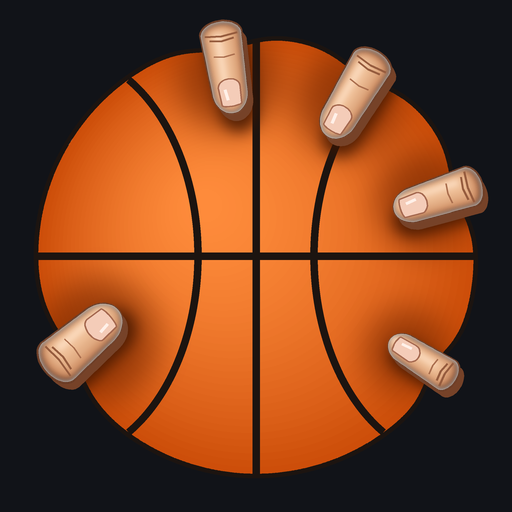
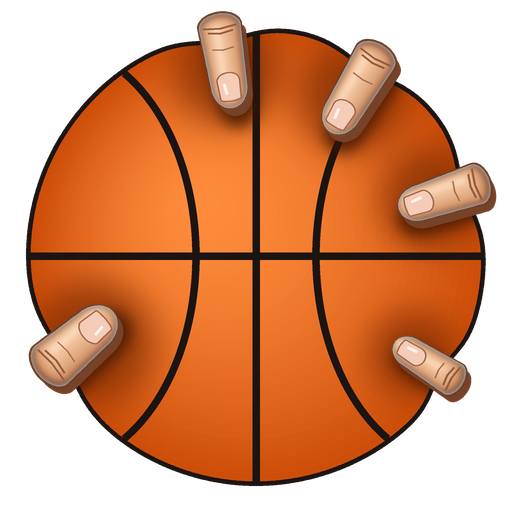
Ícone com fundo transparente e bola no maior tamanho; aviso de app atualizado
Claude-Session: https://claude.ai/code/session_01DAz4iiq8WYmx5pkwcnmPEe

diff --git a/sw.js b/sw.js
@@ -1,5 +1,5 @@
 /* ArduLab: abre offline e pega a versão nova sempre que houver internet (rede primeiro). */
-const C='ardulab-v3';
+const C='ardulab-v4';
 self.addEventListener('install',e=>{self.skipWaiting();e.waitUntil(caches.open(C).then(c=>c.addAll(['./','./index.html','./manifest.json','./icon-192.png','./icon-512.png']).catch(()=>{})))});
 self.addEventListener('activate',e=>e.waitUntil(self.clients.claim()));
 self.addEventListener('fetch',e=>{const u=new URL(e.request.url);if(e.request.method!=='GET'||u.origin!==location.origin)return;
